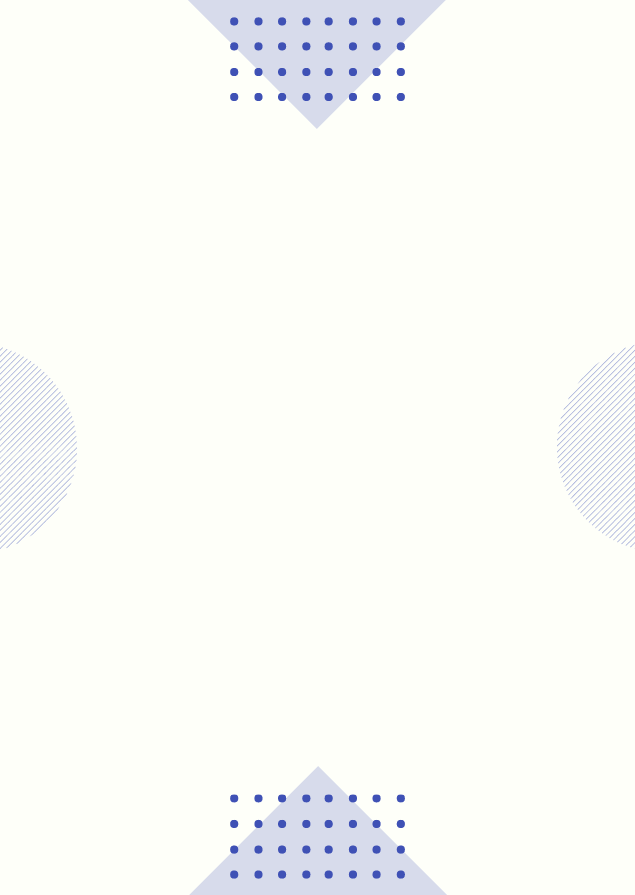
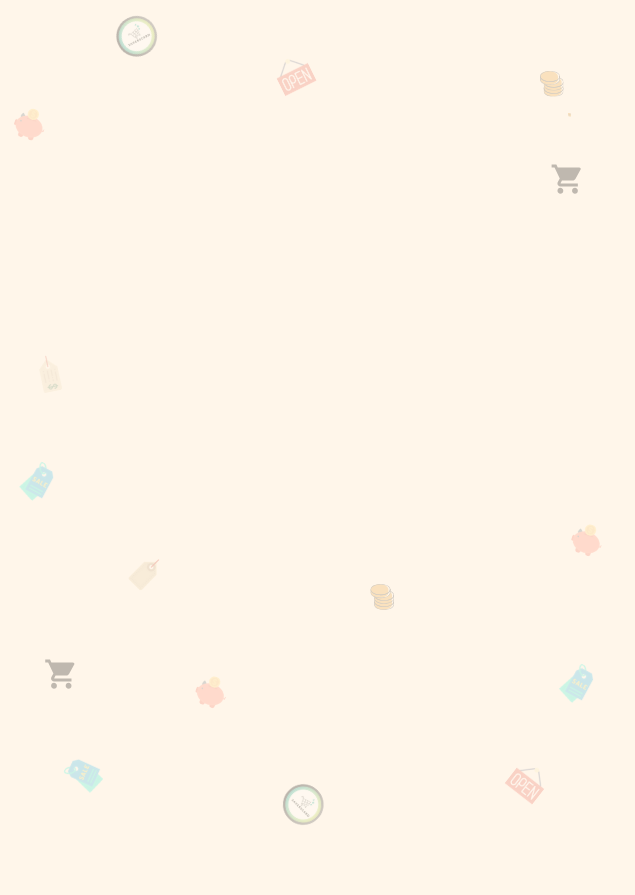
Updated side bg on home page

diff --git a/src/components/admin/summaryFormUsers.jsx b/src/components/admin/summaryFormUsers.jsx
@@ -38,6 +38,7 @@ class SummaryFormUsers extends Component {
       isDialogOpen2: false,
       errors: {},
       id: "",
+      dateModified: "",
       status: "",
       username: "",
       email: "",
@@ -59,6 +60,7 @@ class SummaryFormUsers extends Component {
 
     this.setState({
       id: data._id,
+      dateModified: data.dateModified,
       status: data.accountStatus,
       username: data.username,
       email: data.email,
@@ -122,6 +124,8 @@ class SummaryFormUsers extends Component {
 
   handleChange = ({ target }) => {
     let { name, value } = target;
+    console.log("hi");
+    console.log(name + ":" + value);
     this.setState({
       [name]: value
     });
@@ -150,11 +154,6 @@ class SummaryFormUsers extends Component {
 
     if (this.handleValidation()) {
       var today = new Date();
-      var dd = String(today.getDate()).padStart(2, "0");
-      var mm = String(today.getMonth() + 1).padStart(2, "0"); //January is 0!
-      var yyyy = today.getFullYear();
-
-      today = mm + "/" + dd + "/" + yyyy;
 
       const updatedForm = {
         _id: id,
@@ -208,8 +207,8 @@ class SummaryFormUsers extends Component {
           aria-labelledby="form-dialog-title"
         >
           <DialogTitle id="form-dialog-title">
-            Information Summary :{" "}
-            {this.state.firstName + " " + this.state.lastName}
+            Information Summary :
+            {" " + this.state.firstName + " " + this.state.lastName}
           </DialogTitle>
           <DialogContent>
             <Grid container spacing={3}>
@@ -217,6 +216,7 @@ class SummaryFormUsers extends Component {
                 <TextField
                   select
                   required
+                  name="status"
                   label="Application Status"
                   onChange={this.handleChange}
                   value={this.state.status ? this.state.status : ""}

diff --git a/src/components/admin/summaryFormVendors.jsx b/src/components/admin/summaryFormVendors.jsx
@@ -131,20 +131,7 @@ class SummaryForm extends Component {
       this.state.errors["email"] = "Invalid e-mail address";
     }
 
-    // Fax
-    if (typeof fax !== "undefined") {
-      if (
-        !fax.match(
-          /^(\+?\d{1,}(\s?|\-?)\d*(\s?|\-?)\(?\d{2,}\)?(\s?|\-?)\d{3,}\s?\d{3,})$/
-        )
-      ) {
-        this.state.errors["fax"] = "Invalid fax number";
-      }
-    } else {
-      this.state.errors["fax"] = "Invalid fax number";
-    }
-
-    // Telphone
+    // Telephone
     if (typeof telephone !== "undefined") {
       if (!telephone.match(/^[+]*[(]{0,1}[0-9]{1,4}[)]{0,1}[-\s\./0-9]*$/)) {
         this.state.errors["telephone"] = "Invalid telephone number";
@@ -310,6 +297,7 @@ class SummaryForm extends Component {
                 <TextField
                   select
                   required
+                  name="status"
                   label="Application Status"
                   onChange={this.handleChange}
                   value={this.state.status}
@@ -458,6 +446,7 @@ class SummaryForm extends Component {
                 <TextField
                   select
                   required
+                  name="category"
                   label="Vendor Category"
                   onChange={this.handleChange}
                   value={this.state.category}

diff --git a/src/components/SignupForms/GeneralForms/PaymentForm.jsx b/src/components/SignupForms/GeneralForms/PaymentForm.jsx
@@ -1,5 +1,13 @@
 import React, { Component } from "react";
-import { Box, Grid, MenuItem, TextField, Typography } from "@material-ui/core";
+import {
+  Box,
+  Button,
+  ButtonBase,
+  Grid,
+  MenuItem,
+  TextField,
+  Typography
+} from "@material-ui/core";
 import { withStyles } from "@material-ui/core/styles";
 import { StripeNumberTextField } from "../../stripeNumberTextField";
 import { StripeExpiryTextField } from "../../stripeExpiryTextField";
@@ -122,19 +130,14 @@ class PaymentForm extends Component {
     if (payment === "Invoice") {
       return (
         <React.Fragment>
-          {/* <div className="file-field input-field">
-            <Button waves="light" small>
-              <Icon>attach_file</Icon>
-              <input type="file" />
-            </Button>
-            <div className="file-path-wrapper">
-              <input
-                className="file-path validate"
-                type="text"
-                placeholder="Please attach invoice"
-              />
-            </div>
-          </div> */}
+          {/* <Button
+            type="file"
+            onClick={e => {
+              this.refs["file-upload"].click();
+            }}
+          >
+            Upload invoice
+          </Button> */}
         </React.Fragment>
       );
     }

diff --git a/src/components/admin/adminVendors.jsx b/src/components/admin/adminVendors.jsx
@@ -104,7 +104,14 @@ class AdminVendors extends Component {
         label: "Member Since",
         options: {
           filter: true,
-          sort: false
+          sort: false,
+          customBodyRender: value => {
+            console.log(typeof value);
+            if (value != null) {
+              const date = new Date(value);
+              return date.toLocaleString();
+            }
+          }
         }
       },
       {
@@ -112,7 +119,14 @@ class AdminVendors extends Component {
         label: "Date Modified",
         options: {
           filter: true,
-          sort: false
+          sort: false,
+          customBodyRender: value => {
+            console.log(typeof value);
+            if (value != null) {
+              const date = new Date(value);
+              return date.toLocaleString();
+            }
+          }
         }
       },
       {

diff --git a/src/components/admin/adminUsers.jsx b/src/components/admin/adminUsers.jsx
@@ -161,7 +161,14 @@ class AdminUsers extends Component {
         label: "Member Since",
         options: {
           filter: true,
-          sort: false
+          sort: false,
+          customBodyRender: value => {
+            console.log(typeof value);
+            if (value != null) {
+              const date = new Date(value);
+              return date.toLocaleString();
+            }
+          }
         }
       },
       {
@@ -169,7 +176,14 @@ class AdminUsers extends Component {
         label: "Date Modified",
         options: {
           filter: true,
-          sort: false
+          sort: false,
+          customBodyRender: value => {
+            console.log(typeof value);
+            if (value != null) {
+              const date = new Date(value);
+              return date.toLocaleString();
+            }
+          }
         }
       },
       {

diff --git a/src/components/home.jsx b/src/components/home.jsx
@@ -17,14 +17,14 @@ import {
 import Carousel from "./carousel";
 import SignIn from "./signin";
 import SignUp from "./signup";
-import Image from "../img/sidebg.png";
+import Image from "../img/sideBG.png";
 
 const useStyles = makeStyles(theme => ({
   root: {
-    //backgroundImage: `url(${Image})`,
+    backgroundImage: `url(${Image})`,
     height: "100vh",
-    paddingTop: theme.spacing(10),
-    backgroundColor: "#fdfaf0"
+    paddingTop: theme.spacing(10)
+    //backgroundColor: "#FFF6EA"
   },
   banner: {
     maxHeight: 90,

diff --git a/src/components/account.jsx b/src/components/account.jsx
@@ -394,7 +394,7 @@ function getMembershipDisplay(status, dateModified) {
     return (
       <React.Fragment>
         <Typography variant="subtitle2" gutterBottom>
-          Member Since : {dateModified}
+          Member Since : {console.log(typeof dateModified)}
         </Typography>
 
         <Typography variant="subtitle2">

diff --git a/src/components/SignupForms/SignupVendor.jsx b/src/components/SignupForms/SignupVendor.jsx
@@ -20,7 +20,7 @@ import {
 } from "@material-ui/core";
 import { withStyles } from "@material-ui/core/styles";
 import { blue } from "@material-ui/core/colors";
-import ApplicationStatus from "./../admin/applicationStatus";
+import ApplicationStatus from "../admin/applicationStatus";
 
 const useStyles = theme => ({
   appBar: {
